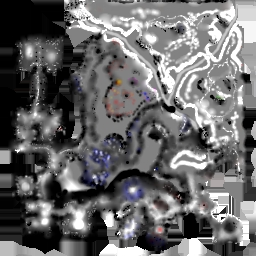
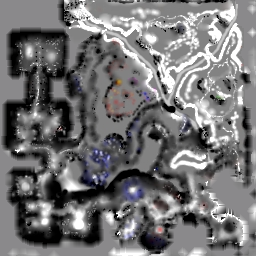
MU2_BGFX: Aida's border fill softens its light -- by the south-east rock heap the fill stood as a black rectangle of grass with straight edges: each filled tile copied its nearest ground tile's light whole, and MU paints the lips nearly black, so the darkness ran out in Voronoi bands. pipeline/terra

Changed region(s): [[0.0, 0.0, 0.3438, 1.0], [0.2812, 0.4062, 1.0, 1.0], [0.9062, 0.0, 1.0, 0.375]]

diff --git a/pipeline/terrain.py b/pipeline/terrain.py
@@ -398,9 +398,10 @@ def spill_lava(reach: int, void: np.ndarray, layer1: np.ndarray, layer2: np.ndar
     return spilled, source.reshape(-1)[spilled]
 
 
-def fill_border(rule: dict, void: np.ndarray, placed: list[dict]) -> tuple[np.ndarray, np.ndarray]:
-    """Which void tiles BORDER_FILL_BY_MAP spreads ground over, and the ground tile each copies,
-    as flat indices on the [y, x] grid.
+def fill_border(rule: dict, void: np.ndarray,
+                placed: list[dict]) -> tuple[np.ndarray, np.ndarray, np.ndarray]:
+    """Which void tiles BORDER_FILL_BY_MAP spreads ground over, the ground tile each copies, as
+    flat indices on the [y, x] grid, and how many steps each lies from that tile.
     """
     from collections import deque
 
@@ -430,6 +431,7 @@ def fill_border(rule: dict, void: np.ndarray, placed: list[dict]) -> tuple[np.nd
                 queue.append((ny, nx))
     # The nearest ground tile to each, walking out from the ground through what is filled.
     source = np.full(void.shape, -1, dtype=np.int64)
+    steps = np.zeros(void.shape, dtype=np.int64)
     queue = deque()
     for y, x in zip(*np.nonzero(~void)):
         source[y, x] = y * size_x + x
@@ -440,9 +442,10 @@ def fill_border(rule: dict, void: np.ndarray, placed: list[dict]) -> tuple[np.nd
             ny, nx = y + dy, x + dx
             if 0 <= ny < size_y and 0 <= nx < size_x and filled[ny, nx] and source[ny, nx] < 0:
                 source[ny, nx] = source[y, x]
+                steps[ny, nx] = steps[y, x] + 1
                 queue.append((ny, nx))
     spread = np.flatnonzero(filled & (source >= 0))
-    return spread, source.reshape(-1)[spread]
+    return spread, source.reshape(-1)[spread], steps.reshape(-1)[spread]
 
 
 #: How much of MU's baked light's variation the ground keeps, where a world differs from
@@ -817,7 +820,7 @@ def main() -> None:
     # The ground spread over the outer void, before anything is written (BORDER_FILL_BY_MAP).
     if (rule := BORDER_FILL_BY_MAP.get(number - 1)):
         flags = np.array(flags)
-        spread, copied = fill_border(rule, (flags & NO_GROUND) != 0, objects(world, number))
+        spread, copied, steps = fill_border(rule, (flags & NO_GROUND) != 0, objects(world, number))
         grid, layer1, layer2, alpha = (np.array(plane) for plane in (grid, layer1, layer2, alpha))
         lit = np.array(lit) if lit is not None else None
         for plane in (grid, layer1, layer2, alpha, flags):
@@ -825,8 +828,14 @@ def main() -> None:
             flat[spread] = flat[copied]
         flags.reshape(-1)[spread] = NO_MOVE
         if lit is not None:
+            # Copied whole, MU's dark-painted lip ran out across the fill in straight bands (the
+            # nearest tile's light, Voronoi-style; the south-east heap, 2026-10-11). So it starts
+            # at its nearest tile's light and reaches the world's walkable mean `soften` steps out.
             flat = lit.reshape(-1, lit.shape[-1])
-            flat[spread] = flat[copied]
+            walkable = (flags & (NO_MOVE | NO_GROUND)) == 0
+            mean = lit[walkable].reshape(-1, lit.shape[-1]).mean(axis=0)
+            t = np.clip(steps / rule.get("soften", 6), 0.0, 1.0)[:, None]
+            flat[spread] = (flat[copied] * (1.0 - t) + mean * t).round().astype(flat.dtype)
         Image.fromarray(grid, "L").save(out / "height.png")
         Image.fromarray(np.stack([layer1, layer2, alpha], axis=-1), "RGB").save(out / "tiles.png")
         print(f"  border     ground spread over {len(spread)} void tiles from the map's edge "

diff --git a/docs/aida-port.md b/docs/aida-port.md
@@ -65,7 +65,10 @@ machine at load 9 with another session's game and netbot running.
     (65,0-240,165). Every tile it reaches copies its nearest ground tile (height, sheets, painted
     light) and is NoMove: 15 752 tiles, the outer frame and the west channel. The walled ravine
     and the two enclosed pits stay void. Walls on the map's own edge get floor behind them.
-    Walkable ground is unchanged at 35.2%.
+    Walkable ground is unchanged at 35.2%. Its painted light starts at the nearest ground
+    tile's and reaches the world's walkable mean 6 steps out (`soften`). Copied whole, MU's dark
+    lip ran across the fill in straight-edged bands: a black rectangle of grass by the
+    south-east heap.
   - **`blend: 1.5`** on Aida's void: the ground fades to black over a tile and a half at every
     lip. Only `fs_ground` reads it, so the walls and rocks keep their light. Blades stood lit
     over the fading strip as black spikes, so **`Grass` grows nothing within `ceil(blend)` tiles
